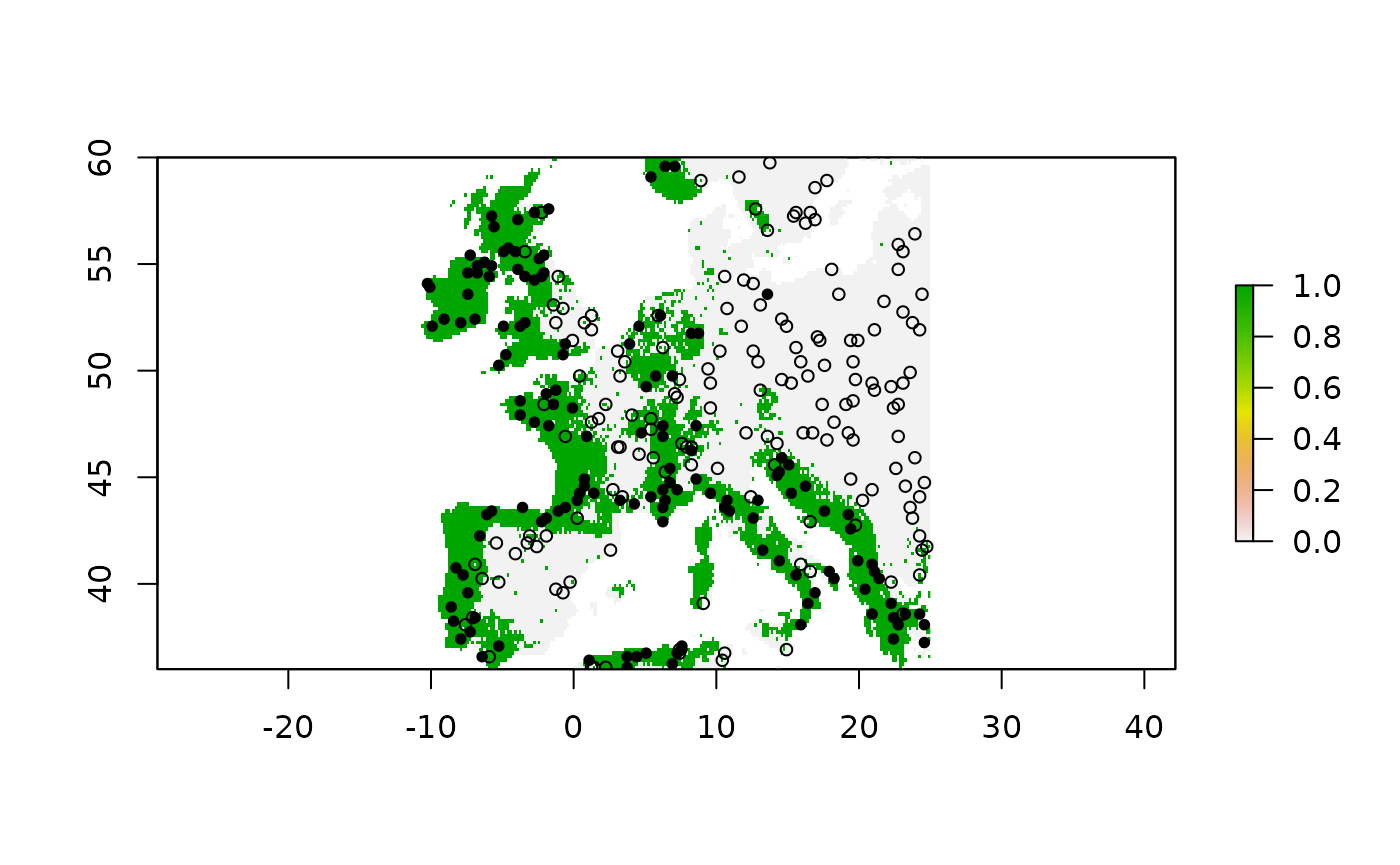
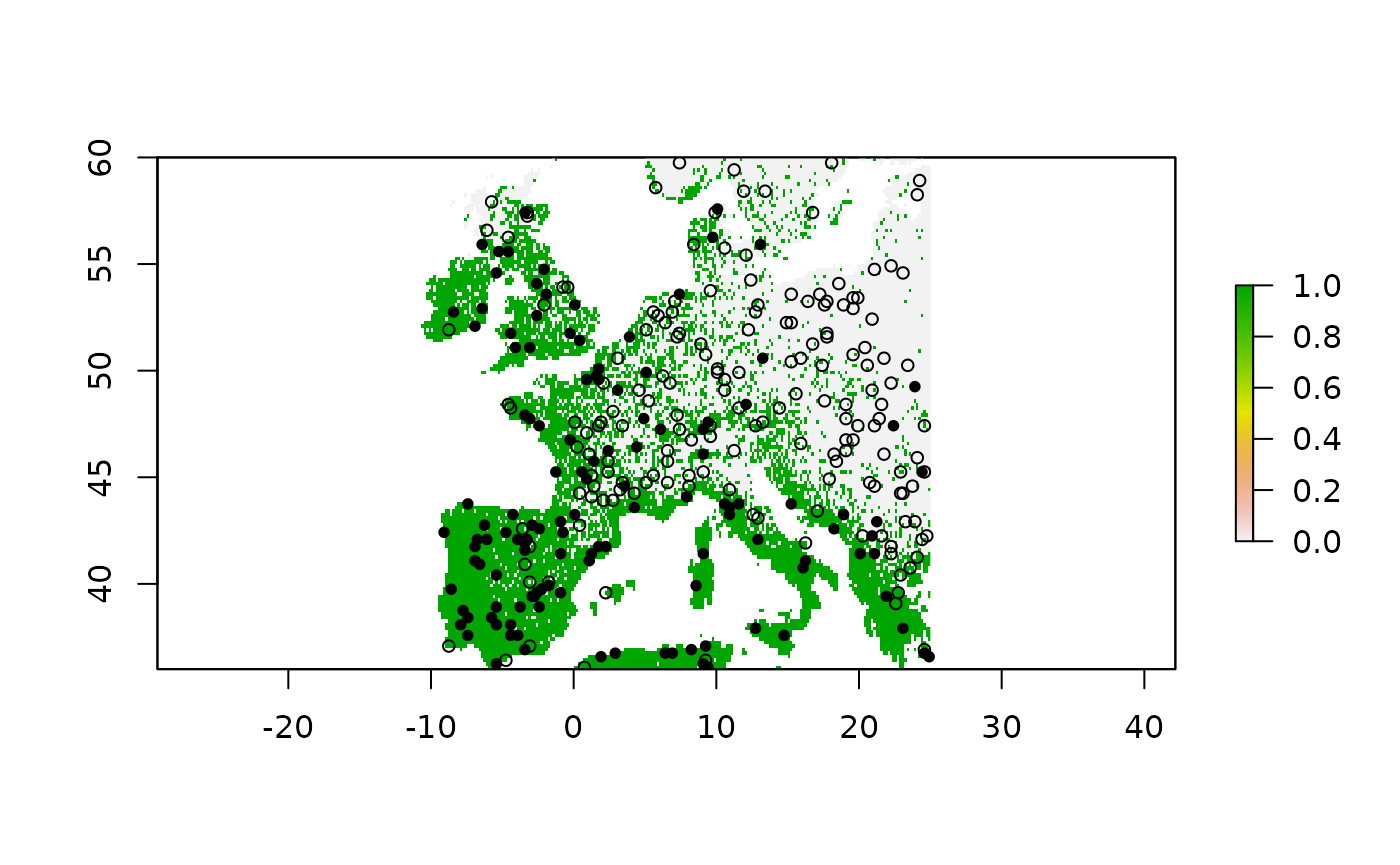
update website2

Changed region(s): [[0.3071, 0.1561, 0.6757, 0.7803], [0.645, 0.2497, 0.6757, 0.2809]]

diff --git a/docs/articles/USE_vignette.html b/docs/articles/USE_vignette.html
@@ -124,8 +124,8 @@ of the <strong>virtualspecies</strong> R package</p>
 <span class="fu"><a href="https://rdrr.io/pkg/raster/man/projection.html" class="external-link">crs</a></span><span class="op">(</span><span class="va">myPres</span><span class="op">)</span><span class="op">&lt;-</span><span class="va">myCRS</span>
 <span class="va">myPres</span>
 <span class="co">#&gt; class       : SpatialPointsDataFrame </span>
-<span class="co">#&gt; features    : 142 </span>
-<span class="co">#&gt; extent      : -10.25, 24.58333, 36.08333, 59.58333  (xmin, xmax, ymin, ymax)</span>
+<span class="co">#&gt; features    : 128 </span>
+<span class="co">#&gt; extent      : -9.083333, 24.91667, 36.08333, 57.58333  (xmin, xmax, ymin, ymax)</span>
 <span class="co">#&gt; crs         : +proj=longlat +datum=WGS84 +no_defs </span>
 <span class="co">#&gt; variables   : 1</span>
 <span class="co">#&gt; names       : Observed </span>
@@ -159,18 +159,18 @@ axes to create a new spatial object.</p>
 <code class="sourceCode R"><span class="fu"><a href="https://rdrr.io/r/utils/str.html" class="external-link">str</a></span><span class="op">(</span><span class="va">myObs</span><span class="op">)</span>
 <span class="co">#&gt; List of 2</span>
 <span class="co">#&gt;  $ Bkg.tr:Classes 'sf', 'data.table' and 'data.frame':   152 obs. of  4 variables:</span>
-<span class="co">#&gt;   ..$ x       : num [1:152] 8.92 9.25 9.25 22.58 9.08 ...</span>
-<span class="co">#&gt;   ..$ y       : num [1:152] 59.9 59.7 59.9 49.1 59.9 ...</span>
-<span class="co">#&gt;   ..$ ID      : chr [1:152] "26" "133" "28" "8504" ...</span>
-<span class="co">#&gt;   ..$ geometry:sfc_POINT of length 152; first list element:  'XY' num [1:2] -3.45 -2.94</span>
+<span class="co">#&gt;   ..$ x       : num [1:152] 9.25 9.42 22.25 22.58 9.58 ...</span>
+<span class="co">#&gt;   ..$ y       : num [1:152] 59.9 59.7 49.2 49.1 59.7 ...</span>
+<span class="co">#&gt;   ..$ ID      : chr [1:152] "28" "134" "8342" "8504" ...</span>
+<span class="co">#&gt;   ..$ geometry:sfc_POINT of length 152; first list element:  'XY' num [1:2] -3.74 -3.04</span>
 <span class="co">#&gt;   ..- attr(*, "sf_column")= chr "geometry"</span>
 <span class="co">#&gt;   ..- attr(*, "agr")= Factor w/ 3 levels "constant","aggregate",..: NA NA NA</span>
 <span class="co">#&gt;   .. ..- attr(*, "names")= chr [1:3] "x" "y" "ID"</span>
 <span class="co">#&gt;  $ Bkg.ts:Classes 'sf', 'data.table' and 'data.frame':   58 obs. of  4 variables:</span>
-<span class="co">#&gt;   ..$ x       : num [1:58] -8.75 20.08 -8.92 -8.92 -10.42 ...</span>
-<span class="co">#&gt;   ..$ y       : num [1:58] 40.7 39.7 42.2 42.9 52.1 ...</span>
-<span class="co">#&gt;   ..$ ID      : chr [1:58] "16089" "16870" "14895" "14302" ...</span>
-<span class="co">#&gt;   ..$ geometry:sfc_POINT of length 58; first list element:  'XY' num [1:2] 1.76 5.9</span>
+<span class="co">#&gt;   ..$ x       : num [1:58] -8.75 -8.42 -8.42 -7.92 -9.42 ...</span>
+<span class="co">#&gt;   ..$ y       : num [1:58] 41.1 40.9 42.2 41.2 51.4 ...</span>
+<span class="co">#&gt;   ..$ ID      : chr [1:58] "15841" "15966" "14898" "15719" ...</span>
+<span class="co">#&gt;   ..$ geometry:sfc_POINT of length 58; first list element:  'XY' num [1:2] 1.44 6.21</span>
 <span class="co">#&gt;   ..- attr(*, "sf_column")= chr "geometry"</span>
 <span class="co">#&gt;   ..- attr(*, "agr")= Factor w/ 3 levels "constant","aggregate",..: NA NA NA</span>
 <span class="co">#&gt;   .. ..- attr(*, "names")= chr [1:3] "x" "y" "ID"</span>
@@ -179,39 +179,39 @@ axes to create a new spatial object.</p>
 <span class="co">#&gt; Simple feature collection with 152 features and 3 fields</span>
 <span class="co">#&gt; Geometry type: POINT</span>
 <span class="co">#&gt; Dimension:     XY</span>
-<span class="co">#&gt; Bounding box:  xmin: -13.58791 ymin: -3.72142 xmax: 6.800077 ymax: 7.139334</span>
+<span class="co">#&gt; Bounding box:  xmin: -13.00796 ymin: -3.82134 xmax: 8.007452 ymax: 7.464948</span>
 <span class="co">#&gt; CRS:           NA</span>
 <span class="co">#&gt; First 10 features:</span>
-<span class="co">#&gt;              x        y   ID                     geometry</span>
-<span class="co">#&gt; 26    8.916667 59.91667   26  POINT (-3.445481 -2.938089)</span>
-<span class="co">#&gt; 133   9.250000 59.75000  133  POINT (-3.430072 -2.760282)</span>
-<span class="co">#&gt; 28    9.250000 59.91667   28  POINT (-3.741414 -3.044682)</span>
-<span class="co">#&gt; 8504 22.583333 49.08333 8504   POINT (-2.890885 -2.57662)</span>
-<span class="co">#&gt; 27    9.083333 59.91667   27  POINT (-3.641179 -3.006921)</span>
-<span class="co">#&gt; 3861 15.250000 53.58333 3861 POINT (-0.2643998 -3.070108)</span>
-<span class="co">#&gt; 850  22.750000 58.58333  850 POINT (-0.9664201 -3.180859)</span>
-<span class="co">#&gt; 4232 18.916667 53.25000 4232 POINT (0.04427603 -3.332483)</span>
-<span class="co">#&gt; 101  23.083333 59.91667  101    POINT (-1.03258 -3.72142)</span>
-<span class="co">#&gt; 736  14.750000 58.75000  736 POINT (-0.8184523 -2.743218)</span>
+<span class="co">#&gt;               x        y    ID                    geometry</span>
+<span class="co">#&gt; 28     9.250000 59.91667    28 POINT (-3.741414 -3.044682)</span>
+<span class="co">#&gt; 134    9.416667 59.75000   134  POINT (-3.270331 -2.84089)</span>
+<span class="co">#&gt; 8342  22.250000 49.25000  8342 POINT (-2.793576 -2.840835)</span>
+<span class="co">#&gt; 8504  22.583333 49.08333  8504  POINT (-2.890885 -2.57662)</span>
+<span class="co">#&gt; 135    9.583333 59.75000   135 POINT (-2.696467 -2.695892)</span>
+<span class="co">#&gt; 1902  22.583333 56.58333  1902 POINT (-1.419383 -3.004503)</span>
+<span class="co">#&gt; 2714  21.416667 55.08333  2714 POINT (-1.142236 -2.584697)</span>
+<span class="co">#&gt; 10081 21.916667 47.58333 10081  POINT (0.937118 -2.752098)</span>
+<span class="co">#&gt; 2459  24.250000 55.58333  2459 POINT (-0.7432313 -3.82134)</span>
+<span class="co">#&gt; 833   15.250000 58.58333   833 POINT (-0.507974 -2.759355)</span>
 <span class="co">#background points for the testing dataset</span>
 <span class="va">myObs</span><span class="op">$</span><span class="va">Bkg.ts</span>
 <span class="co">#&gt; Simple feature collection with 58 features and 3 fields</span>
 <span class="co">#&gt; Geometry type: POINT</span>
 <span class="co">#&gt; Dimension:     XY</span>
-<span class="co">#&gt; Bounding box:  xmin: -11.38069 ymin: -3.633896 xmax: 6.491139 ymax: 6.959128</span>
+<span class="co">#&gt; Bounding box:  xmin: -12.00336 ymin: -3.765887 xmax: 6.391347 ymax: 7.034773</span>
 <span class="co">#&gt; CRS:           NA</span>
 <span class="co">#&gt; First 10 features:</span>
 <span class="co">#&gt;                x        y    ID                    geometry</span>
-<span class="co">#&gt; 16089  -8.750000 40.75000 16089   POINT (1.759328 5.903501)</span>
-<span class="co">#&gt; 16870  20.083333 39.75000 16870   POINT (2.347694 5.856895)</span>
-<span class="co">#&gt; 14895  -8.916667 42.25000 14895  POINT (0.1535594 6.959128)</span>
-<span class="co">#&gt; 14302  -8.916667 42.91667 14302 POINT (-0.4818205 6.108024)</span>
-<span class="co">#&gt; 5360  -10.416667 52.08333  5360   POINT (-4.456471 6.41753)</span>
-<span class="co">#&gt; 5176   -9.583333 52.25000  5176  POINT (-3.398675 5.650272)</span>
-<span class="co">#&gt; 1546   -4.916667 57.08333  1546  POINT (-6.493316 5.645063)</span>
+<span class="co">#&gt; 15841  -8.750000 41.08333 15841   POINT (1.438175 6.212886)</span>
+<span class="co">#&gt; 15966  -8.416667 40.91667 15966   POINT (1.264748 5.807711)</span>
+<span class="co">#&gt; 14898  -8.416667 42.25000 14898 POINT (-0.7603953 7.034773)</span>
+<span class="co">#&gt; 15719  -7.916667 41.25000 15719  POINT (0.4765325 5.623394)</span>
+<span class="co">#&gt; 6097   -9.416667 51.41667  6097   POINT (-3.53417 6.026639)</span>
+<span class="co">#&gt; 5362  -10.083333 52.08333  5362   POINT (-4.624042 6.34817)</span>
 <span class="co">#&gt; 1923   -5.750000 56.41667  1923  POINT (-6.801299 6.590234)</span>
-<span class="co">#&gt; 17386  -8.750000 38.75000 17386   POINT (5.037107 3.941326)</span>
-<span class="co">#&gt; 18247   9.416667 37.25000 18247   POINT (5.392803 3.673602)</span></code></pre></div>
+<span class="co">#&gt; 2020   -4.750000 56.25000  2020   POINT (-7.437112 6.78468)</span>
+<span class="co">#&gt; 18329   9.250000 37.08333 18329    POINT (5.155894 3.83677)</span>
+<span class="co">#&gt; 18483   2.750000 36.75000 18483   POINT (4.946948 3.931985)</span></code></pre></div>
 <p>Uniformly sampling background points in the environmental space,
 accounting for the species presence points.</p>
 <div class="sourceCode" id="cb11"><pre class="downlit sourceCode r">
@@ -229,150 +229,150 @@ accounting for the species presence points.</p>
 <div class="sourceCode" id="cb12"><pre class="downlit sourceCode r">
 <code class="sourceCode R"><span class="fu"><a href="https://rdrr.io/r/utils/str.html" class="external-link">str</a></span><span class="op">(</span><span class="va">myGrid.psAbs</span><span class="op">)</span>
 <span class="co">#&gt; List of 2</span>
-<span class="co">#&gt;  $ Bkg.tr:Classes 'sf' and 'data.frame': 494 obs. of  27 variables:</span>
-<span class="co">#&gt;   ..$ KDE     : num [1:494] 0.000352 0.00038 0.001166 0.004827 0.003407 ...</span>
-<span class="co">#&gt;   ..$ myID    : num [1:494] 125 128 130 142 143 348 350 351 352 150 ...</span>
-<span class="co">#&gt;   ..$ PA      : num [1:494] 0 0 0 0 0 0 0 0 0 0 ...</span>
-<span class="co">#&gt;   ..$ percP   : chr [1:494] "out" "out" "out" "out" ...</span>
-<span class="co">#&gt;   ..$ x       : num [1:494] 8.75 9.25 9.58 11.58 11.75 ...</span>
-<span class="co">#&gt;   ..$ y       : num [1:494] 59.9 59.9 59.9 59.9 59.9 ...</span>
-<span class="co">#&gt;   ..$ bio1    : num [1:494] 13 16 35 46 44 18 25 27 38 45 ...</span>
-<span class="co">#&gt;   ..$ bio2    : num [1:494] 75 76 76 69 70 73 73 73 72 76 ...</span>
-<span class="co">#&gt;   ..$ bio3    : num [1:494] 27 26 26 24 24 26 26 26 25 26 ...</span>
-<span class="co">#&gt;   ..$ bio4    : num [1:494] 7053 7328 7619 7597 7577 ...</span>
-<span class="co">#&gt;   ..$ bio5    : num [1:494] 164 171 193 199 197 168 176 180 191 200 ...</span>
-<span class="co">#&gt;   ..$ bio6    : num [1:494] -112 -113 -98 -85 -88 -106 -102 -100 -90 -90 ...</span>
-<span class="co">#&gt;   ..$ bio7    : num [1:494] 276 284 291 284 285 274 278 280 281 290 ...</span>
-<span class="co">#&gt;   ..$ bio8    : num [1:494] 66 101 123 99 96 71 109 113 92 131 ...</span>
-<span class="co">#&gt;   ..$ bio9    : num [1:494] -42 -40 -21 -13 -16 -37 -31 -29 -18 -14 ...</span>
-<span class="co">#&gt;   ..$ bio10   : num [1:494] 106 112 134 146 143 111 119 123 135 144 ...</span>
-<span class="co">#&gt;   ..$ bio11   : num [1:494] -76 -77 -62 -50 -53 -70 -66 -65 -56 -51 ...</span>
-<span class="co">#&gt;   ..$ bio12   : num [1:494] 844 820 756 798 793 839 817 806 772 703 ...</span>
-<span class="co">#&gt;   ..$ bio13   : num [1:494] 103 102 95 90 90 103 101 99 95 83 ...</span>
-<span class="co">#&gt;   ..$ bio14   : num [1:494] 41 41 37 41 41 41 41 41 38 34 ...</span>
-<span class="co">#&gt;   ..$ bio15   : num [1:494] 27 28 29 26 26 28 28 27 28 29 ...</span>
-<span class="co">#&gt;   ..$ bio16   : num [1:494] 282 277 258 261 258 281 273 269 261 238 ...</span>
-<span class="co">#&gt;   ..$ bio17   : num [1:494] 134 130 119 132 131 133 131 130 124 112 ...</span>
-<span class="co">#&gt;   ..$ bio18   : num [1:494] 264 265 245 246 248 262 258 255 243 230 ...</span>
-<span class="co">#&gt;   ..$ bio19   : num [1:494] 171 158 140 156 154 167 159 155 145 131 ...</span>
-<span class="co">#&gt;   ..$ ID      : chr [1:494] "16" "17" "18" "25" ...</span>
-<span class="co">#&gt;   ..$ geometry:sfc_POINT of length 494; first list element:  'XY' num [1:2] -4.04 -2.58</span>
+<span class="co">#&gt;  $ Bkg.tr:Classes 'sf' and 'data.frame': 446 obs. of  27 variables:</span>
+<span class="co">#&gt;   ..$ KDE     : num [1:446] 0.000352 0.00038 0.001166 0.004827 0.003407 ...</span>
+<span class="co">#&gt;   ..$ myID    : num [1:446] 125 128 130 142 143 ...</span>
+<span class="co">#&gt;   ..$ PA      : num [1:446] 0 0 0 0 0 0 0 0 0 0 ...</span>
+<span class="co">#&gt;   ..$ percP   : chr [1:446] "out" "out" "out" "out" ...</span>
+<span class="co">#&gt;   ..$ x       : num [1:446] 8.75 9.25 9.58 11.58 11.75 ...</span>
+<span class="co">#&gt;   ..$ y       : num [1:446] 59.9 59.9 59.9 59.9 59.9 ...</span>
+<span class="co">#&gt;   ..$ bio1    : num [1:446] 13 16 35 46 44 18 25 27 38 84 ...</span>
+<span class="co">#&gt;   ..$ bio2    : num [1:446] 75 76 76 69 70 73 73 73 72 85 ...</span>
+<span class="co">#&gt;   ..$ bio3    : num [1:446] 27 26 26 24 24 26 26 26 25 27 ...</span>
+<span class="co">#&gt;   ..$ bio4    : num [1:446] 7053 7328 7619 7597 7577 ...</span>
+<span class="co">#&gt;   ..$ bio5    : num [1:446] 164 171 193 199 197 168 176 180 191 245 ...</span>
+<span class="co">#&gt;   ..$ bio6    : num [1:446] -112 -113 -98 -85 -88 -106 -102 -100 -90 -64 ...</span>
+<span class="co">#&gt;   ..$ bio7    : num [1:446] 276 284 291 284 285 274 278 280 281 309 ...</span>
+<span class="co">#&gt;   ..$ bio8    : num [1:446] 66 101 123 99 96 71 109 113 92 181 ...</span>
+<span class="co">#&gt;   ..$ bio9    : num [1:446] -42 -40 -21 -13 -16 -37 -31 -29 -18 -11 ...</span>
+<span class="co">#&gt;   ..$ bio10   : num [1:446] 106 112 134 146 143 111 119 123 135 181 ...</span>
+<span class="co">#&gt;   ..$ bio11   : num [1:446] -76 -77 -62 -50 -53 -70 -66 -65 -56 -24 ...</span>
+<span class="co">#&gt;   ..$ bio12   : num [1:446] 844 820 756 798 793 839 817 806 772 518 ...</span>
+<span class="co">#&gt;   ..$ bio13   : num [1:446] 103 102 95 90 90 103 101 99 95 74 ...</span>
+<span class="co">#&gt;   ..$ bio14   : num [1:446] 41 41 37 41 41 41 41 41 38 23 ...</span>
+<span class="co">#&gt;   ..$ bio15   : num [1:446] 27 28 29 26 26 28 28 27 28 37 ...</span>
+<span class="co">#&gt;   ..$ bio16   : num [1:446] 282 277 258 261 258 281 273 269 261 202 ...</span>
+<span class="co">#&gt;   ..$ bio17   : num [1:446] 134 130 119 132 131 133 131 130 124 76 ...</span>
+<span class="co">#&gt;   ..$ bio18   : num [1:446] 264 265 245 246 248 262 258 255 243 202 ...</span>
+<span class="co">#&gt;   ..$ bio19   : num [1:446] 171 158 140 156 154 167 159 155 145 85 ...</span>
+<span class="co">#&gt;   ..$ ID      : chr [1:446] "16" "17" "18" "25" ...</span>
+<span class="co">#&gt;   ..$ geometry:sfc_POINT of length 446; first list element:  'XY' num [1:2] -4.04 -2.58</span>
 <span class="co">#&gt;   ..- attr(*, "sf_column")= chr "geometry"</span>
 <span class="co">#&gt;   ..- attr(*, "agr")= Factor w/ 3 levels "constant","aggregate",..: NA NA NA NA NA NA NA NA NA NA ...</span>
 <span class="co">#&gt;   .. ..- attr(*, "names")= chr [1:26] "KDE" "myID" "PA" "percP" ...</span>
-<span class="co">#&gt;  $ Bkg.ts:Classes 'sf' and 'data.frame': 313 obs. of  27 variables:</span>
-<span class="co">#&gt;   ..$ KDE     : num [1:313] 0.000842 0.001535 0.001566 0.000774 0.000791 ...</span>
-<span class="co">#&gt;   ..$ myID    : num [1:313] 22886 22888 25332 24218 23551 ...</span>
-<span class="co">#&gt;   ..$ PA      : num [1:313] 0 0 0 0 0 0 0 0 0 0 ...</span>
-<span class="co">#&gt;   ..$ percP   : chr [1:313] "out" "out" "out" "out" ...</span>
-<span class="co">#&gt;   ..$ x       : num [1:313] -8.75 -8.42 -8.08 -8.75 -8.92 ...</span>
-<span class="co">#&gt;   ..$ y       : num [1:313] 42.7 42.7 40.9 41.7 42.2 ...</span>
-<span class="co">#&gt;   ..$ bio1    : num [1:313] 137 136 126 137 148 123 132 133 140 129 ...</span>
-<span class="co">#&gt;   ..$ bio2    : num [1:313] 65 75 94 76 61 85 80 65 83 68 ...</span>
-<span class="co">#&gt;   ..$ bio3    : num [1:313] 38 38 40 42 39 39 39 39 40 39 ...</span>
-<span class="co">#&gt;   ..$ bio4    : num [1:313] 3649 3992 4825 3718 3445 ...</span>
-<span class="co">#&gt;   ..$ bio5    : num [1:313] 233 245 259 235 232 244 245 225 255 228 ...</span>
-<span class="co">#&gt;   ..$ bio6    : num [1:313] 63 51 26 57 78 29 43 60 50 54 ...</span>
-<span class="co">#&gt;   ..$ bio7    : num [1:313] 170 194 233 178 154 215 202 165 205 174 ...</span>
-<span class="co">#&gt;   ..$ bio8    : num [1:313] 100 94 66 91 112 74 87 100 94 94 ...</span>
-<span class="co">#&gt;   ..$ bio9    : num [1:313] 183 188 188 184 191 182 184 175 195 174 ...</span>
-<span class="co">#&gt;   ..$ bio10   : num [1:313] 186 190 189 186 192 182 187 179 196 178 ...</span>
-<span class="co">#&gt;   ..$ bio11   : num [1:313] 92 88 66 91 104 68 83 91 86 86 ...</span>
-<span class="co">#&gt;   ..$ bio12   : num [1:313] 1303 1331 1337 1370 1293 ...</span>
-<span class="co">#&gt;   ..$ bio13   : num [1:313] 191 197 196 187 181 210 194 164 203 177 ...</span>
-<span class="co">#&gt;   ..$ bio14   : num [1:313] 33 35 15 19 26 30 35 33 24 36 ...</span>
-<span class="co">#&gt;   ..$ bio15   : num [1:313] 45 45 54 51 48 47 44 42 49 41 ...</span>
-<span class="co">#&gt;   ..$ bio16   : num [1:313] 512 513 539 550 520 543 503 458 527 487 ...</span>
-<span class="co">#&gt;   ..$ bio17   : num [1:313] 131 133 90 96 109 128 134 132 111 140 ...</span>
-<span class="co">#&gt;   ..$ bio18   : num [1:313] 152 152 94 117 131 139 152 156 126 163 ...</span>
-<span class="co">#&gt;   ..$ bio19   : num [1:313] 475 487 539 550 486 532 482 408 515 445 ...</span>
-<span class="co">#&gt;   ..$ ID      : chr [1:313] "3076" "3078" "3790" "3434" ...</span>
-<span class="co">#&gt;   ..$ geometry:sfc_POINT of length 313; first list element:  'XY' num [1:2] -0.472 6.57</span>
+<span class="co">#&gt;  $ Bkg.ts:Classes 'sf' and 'data.frame': 268 obs. of  27 variables:</span>
+<span class="co">#&gt;   ..$ KDE     : num [1:268] 0.00056 0.000956 0.000582 0.000445 0.00155 ...</span>
+<span class="co">#&gt;   ..$ myID    : num [1:268] 30747 23333 23553 24440 24222 ...</span>
+<span class="co">#&gt;   ..$ PA      : num [1:268] 0 0 0 0 0 0 0 0 0 0 ...</span>
+<span class="co">#&gt;   ..$ percP   : chr [1:268] "out" "out" "out" "out" ...</span>
+<span class="co">#&gt;   ..$ x       : num [1:268] 6.42 -8.25 -8.58 -8.75 -8.08 ...</span>
+<span class="co">#&gt;   ..$ y       : num [1:268] 36.9 42.4 42.2 41.6 41.7 ...</span>
+<span class="co">#&gt;   ..$ bio1    : num [1:268] 158 122 140 141 110 123 141 125 122 130 ...</span>
+<span class="co">#&gt;   ..$ bio2    : num [1:268] 87 83 71 79 88 85 72 97 94 80 ...</span>
+<span class="co">#&gt;   ..$ bio3    : num [1:268] 34 39 39 43 39 39 42 40 40 40 ...</span>
+<span class="co">#&gt;   ..$ bio4    : num [1:268] 5626 4391 3920 3665 4781 ...</span>
+<span class="co">#&gt;   ..$ bio5    : num [1:268] 298 241 239 239 240 244 233 263 255 243 ...</span>
+<span class="co">#&gt;   ..$ bio6    : num [1:268] 49 30 60 59 15 29 64 23 23 43 ...</span>
+<span class="co">#&gt;   ..$ bio7    : num [1:268] 249 211 179 180 225 215 169 240 232 200 ...</span>
+<span class="co">#&gt;   ..$ bio8    : num [1:268] 90 74 98 96 59 74 97 63 63 84 ...</span>
+<span class="co">#&gt;   ..$ bio9    : num [1:268] 229 179 190 187 173 182 185 191 185 185 ...</span>
+<span class="co">#&gt;   ..$ bio10   : num [1:268] 235 180 191 189 174 182 186 192 186 186 ...</span>
+<span class="co">#&gt;   ..$ bio11   : num [1:268] 90 69 91 96 52 68 97 63 63 78 ...</span>
+<span class="co">#&gt;   ..$ bio12   : num [1:268] 1185 1413 1470 1294 1439 ...</span>
+<span class="co">#&gt;   ..$ bio13   : num [1:268] 214 213 236 179 191 210 184 195 183 229 ...</span>
+<span class="co">#&gt;   ..$ bio14   : num [1:268] 5 33 30 16 25 30 18 15 20 31 ...</span>
+<span class="co">#&gt;   ..$ bio15   : num [1:268] 70 46 50 52 50 47 52 55 51 49 ...</span>
+<span class="co">#&gt;   ..$ bio16   : num [1:268] 582 546 592 519 564 543 534 533 536 576 ...</span>
+<span class="co">#&gt;   ..$ bio17   : num [1:268] 42 134 123 86 118 128 91 89 102 128 ...</span>
+<span class="co">#&gt;   ..$ bio18   : num [1:268] 65 147 140 108 125 139 115 92 110 142 ...</span>
+<span class="co">#&gt;   ..$ bio19   : num [1:268] 582 534 584 519 564 532 534 533 536 567 ...</span>
+<span class="co">#&gt;   ..$ ID      : chr [1:268] "5593" "3552" "3577" "3866" ...</span>
+<span class="co">#&gt;   ..$ geometry:sfc_POINT of length 268; first list element:  'XY' num [1:2] 2.48 5.97</span>
 <span class="co">#&gt;   ..- attr(*, "sf_column")= chr "geometry"</span>
 <span class="co">#&gt;   ..- attr(*, "agr")= Factor w/ 3 levels "constant","aggregate",..: NA NA NA NA NA NA NA NA NA NA ...</span>
 <span class="co">#&gt;   .. ..- attr(*, "names")= chr [1:26] "KDE" "myID" "PA" "percP" ...</span>
 <span class="co">#background points for the training dataset</span>
 <span class="va">myGrid.psAbs</span><span class="op">$</span><span class="va">Bkg.tr</span>
-<span class="co">#&gt; Simple feature collection with 494 features and 26 fields</span>
+<span class="co">#&gt; Simple feature collection with 446 features and 26 fields</span>
 <span class="co">#&gt; Geometry type: POINT</span>
 <span class="co">#&gt; Dimension:     XY</span>
-<span class="co">#&gt; Bounding box:  xmin: -13.58791 ymin: -4.483249 xmax: 6.97369 ymax: 7.630419</span>
-<span class="co">#&gt; CRS:           NA</span>
-<span class="co">#&gt; First 10 features:</span>
-<span class="co">#&gt;             KDE myID PA percP         x        y bio1 bio2 bio3 bio4 bio5 bio6</span>
-<span class="co">#&gt; 16 0.0003518053  125  0   out  8.750000 59.91667   13   75   27 7053  164 -112</span>
-<span class="co">#&gt; 17 0.0003799395  128  0   out  9.250000 59.91667   16   76   26 7328  171 -113</span>
-<span class="co">#&gt; 18 0.0011658064  130  0   out  9.583333 59.91667   35   76   26 7619  193  -98</span>
-<span class="co">#&gt; 25 0.0048266103  142  0   out 11.583333 59.91667   46   69   24 7597  199  -85</span>
-<span class="co">#&gt; 26 0.0034065575  143  0   out 11.750000 59.91667   44   70   24 7577  197  -88</span>
-<span class="co">#&gt; 56 0.0004986511  348  0   out  8.916667 59.75000   18   73   26 7051  168 -106</span>
-<span class="co">#&gt; 57 0.0006048808  350  0   out  9.250000 59.75000   25   73   26 7183  176 -102</span>
-<span class="co">#&gt; 58 0.0006311931  351  0   out  9.416667 59.75000   27   73   26 7300  180 -100</span>
-<span class="co">#&gt; 59 0.0034854319  352  0   out  9.583333 59.75000   38   72   25 7389  191  -90</span>
-<span class="co">#&gt; 31 0.0089087937  150  0   out 12.916667 59.91667   45   76   26 7563  200  -90</span>
-<span class="co">#&gt;    bio7 bio8 bio9 bio10 bio11 bio12 bio13 bio14 bio15 bio16 bio17 bio18 bio19</span>
-<span class="co">#&gt; 16  276   66  -42   106   -76   844   103    41    27   282   134   264   171</span>
-<span class="co">#&gt; 17  284  101  -40   112   -77   820   102    41    28   277   130   265   158</span>
-<span class="co">#&gt; 18  291  123  -21   134   -62   756    95    37    29   258   119   245   140</span>
-<span class="co">#&gt; 25  284   99  -13   146   -50   798    90    41    26   261   132   246   156</span>
-<span class="co">#&gt; 26  285   96  -16   143   -53   793    90    41    26   258   131   248   154</span>
-<span class="co">#&gt; 56  274   71  -37   111   -70   839   103    41    28   281   133   262   167</span>
-<span class="co">#&gt; 57  278  109  -31   119   -66   817   101    41    28   273   131   258   159</span>
-<span class="co">#&gt; 58  280  113  -29   123   -65   806    99    41    27   269   130   255   155</span>
-<span class="co">#&gt; 59  281   92  -18   135   -56   772    95    38    28   261   124   243   145</span>
-<span class="co">#&gt; 31  290  131  -14   144   -51   703    83    34    29   238   112   230   131</span>
-<span class="co">#&gt;    ID                    geometry</span>
-<span class="co">#&gt; 16 16 POINT (-4.041346 -2.577969)</span>
-<span class="co">#&gt; 17 17 POINT (-3.741414 -3.044682)</span>
-<span class="co">#&gt; 18 18 POINT (-2.552753 -3.139665)</span>
-<span class="co">#&gt; 25 25 POINT (-2.562465 -2.663995)</span>
-<span class="co">#&gt; 26 26 POINT (-2.641587 -2.743201)</span>
-<span class="co">#&gt; 56 56 POINT (-3.853077 -2.523284)</span>
-<span class="co">#&gt; 57 57 POINT (-3.430072 -2.760282)</span>
-<span class="co">#&gt; 58 58  POINT (-3.270331 -2.84089)</span>
-<span class="co">#&gt; 59 59 POINT (-2.696467 -2.695892)</span>
-<span class="co">#&gt; 31 31 POINT (-1.878144 -3.179145)</span>
-<span class="co">#background points for the testing dataset</span>
-<span class="va">myGrid.psAbs</span><span class="op">$</span><span class="va">Bkg.ts</span>
-<span class="co">#&gt; Simple feature collection with 313 features and 26 fields</span>
-<span class="co">#&gt; Geometry type: POINT</span>
-<span class="co">#&gt; Dimension:     XY</span>
-<span class="co">#&gt; Bounding box:  xmin: -12.93306 ymin: -4.46269 xmax: 6.838346 ymax: 7.188879</span>
+<span class="co">#&gt; Bounding box:  xmin: -13.58791 ymin: -4.519409 xmax: 7.237459 ymax: 7.464948</span>
 <span class="co">#&gt; CRS:           NA</span>
 <span class="co">#&gt; First 10 features:</span>
 <span class="co">#&gt;               KDE  myID PA percP         x        y bio1 bio2 bio3 bio4 bio5</span>
-<span class="co">#&gt; 3076 0.0008424206 22886  0   out -8.750000 42.75000  137   65   38 3649  233</span>
-<span class="co">#&gt; 3078 0.0015354148 22888  0   out -8.416667 42.75000  136   75   38 3992  245</span>
-<span class="co">#&gt; 3790 0.0015664237 25332  0   out -8.083333 40.91667  126   94   40 4825  259</span>
-<span class="co">#&gt; 3434 0.0007744988 24218  0   out -8.750000 41.75000  137   76   42 3718  235</span>
-<span class="co">#&gt; 3230 0.0007908221 23551  0   out -8.916667 42.25000  148   61   39 3445  232</span>
-<span class="co">#&gt; 3234 0.0017867435 23555  0   out -8.250000 42.25000  123   85   39 4514  244</span>
-<span class="co">#&gt; 3079 0.0021191116 22889  0   out -8.250000 42.75000  132   80   39 4069  245</span>
-<span class="co">#&gt; 2926 0.0023685764 22441  0   out -8.916667 43.08333  133   65   39 3398  225</span>
-<span class="co">#&gt; 3302 0.0007172080 23776  0   out -8.416667 42.08333  140   83   40 4278  255</span>
-<span class="co">#&gt; 2927 0.0017581440 22442  0   out -8.750000 43.08333  129   68   39 3584  228</span>
+<span class="co">#&gt; 16   0.0003518053   125  0   out  8.750000 59.91667   13   75   27 7053  164</span>
+<span class="co">#&gt; 17   0.0003799395   128  0   out  9.250000 59.91667   16   76   26 7328  171</span>
+<span class="co">#&gt; 18   0.0011658064   130  0   out  9.583333 59.91667   35   76   26 7619  193</span>
+<span class="co">#&gt; 25   0.0048266103   142  0   out 11.583333 59.91667   46   69   24 7597  199</span>
+<span class="co">#&gt; 26   0.0034065575   143  0   out 11.750000 59.91667   44   70   24 7577  197</span>
+<span class="co">#&gt; 58   0.0004986511   348  0   out  8.916667 59.75000   18   73   26 7051  168</span>
+<span class="co">#&gt; 59   0.0006048808   350  0   out  9.250000 59.75000   25   73   26 7183  176</span>
+<span class="co">#&gt; 60   0.0006311931   351  0   out  9.416667 59.75000   27   73   26 7300  180</span>
+<span class="co">#&gt; 61   0.0034854319   352  0   out  9.583333 59.75000   38   72   25 7389  191</span>
+<span class="co">#&gt; 1241 0.0132314755 10617  0   out 18.416667 52.08333   84   85   27 7938  245</span>
 <span class="co">#&gt;      bio6 bio7 bio8 bio9 bio10 bio11 bio12 bio13 bio14 bio15 bio16 bio17 bio18</span>
-<span class="co">#&gt; 3076   63  170  100  183   186    92  1303   191    33    45   512   131   152</span>
-<span class="co">#&gt; 3078   51  194   94  188   190    88  1331   197    35    45   513   133   152</span>
-<span class="co">#&gt; 3790   26  233   66  188   189    66  1337   196    15    54   539    90    94</span>
-<span class="co">#&gt; 3434   57  178   91  184   186    91  1370   187    19    51   550    96   117</span>
-<span class="co">#&gt; 3230   78  154  112  191   192   104  1293   181    26    48   520   109   131</span>
-<span class="co">#&gt; 3234   29  215   74  182   182    68  1396   210    30    47   543   128   139</span>
-<span class="co">#&gt; 3079   43  202   87  184   187    83  1321   194    35    44   503   134   152</span>
-<span class="co">#&gt; 2926   60  165  100  175   179    91  1175   164    33    42   458   132   156</span>
-<span class="co">#&gt; 3302   50  205   94  195   196    86  1333   203    24    49   527   111   126</span>
-<span class="co">#&gt; 2927   54  174   94  174   178    86  1261   177    36    41   487   140   163</span>
+<span class="co">#&gt; 16   -112  276   66  -42   106   -76   844   103    41    27   282   134   264</span>
+<span class="co">#&gt; 17   -113  284  101  -40   112   -77   820   102    41    28   277   130   265</span>
+<span class="co">#&gt; 18    -98  291  123  -21   134   -62   756    95    37    29   258   119   245</span>
+<span class="co">#&gt; 25    -85  284   99  -13   146   -50   798    90    41    26   261   132   246</span>
+<span class="co">#&gt; 26    -88  285   96  -16   143   -53   793    90    41    26   258   131   248</span>
+<span class="co">#&gt; 58   -106  274   71  -37   111   -70   839   103    41    28   281   133   262</span>
+<span class="co">#&gt; 59   -102  278  109  -31   119   -66   817   101    41    28   273   131   258</span>
+<span class="co">#&gt; 60   -100  280  113  -29   123   -65   806    99    41    27   269   130   255</span>
+<span class="co">#&gt; 61    -90  281   92  -18   135   -56   772    95    38    28   261   124   243</span>
+<span class="co">#&gt; 1241  -64  309  181  -11   181   -24   518    74    23    37   202    76   202</span>
 <span class="co">#&gt;      bio19   ID                    geometry</span>
-<span class="co">#&gt; 3076   475 3076 POINT (-0.4722045 6.569908)</span>
-<span class="co">#&gt; 3078   487 3078   POINT (-0.33467 6.342836)</span>
-<span class="co">#&gt; 3790   539 3790  POINT (0.5825749 5.827699)</span>
-<span class="co">#&gt; 3434   550 3434  POINT (0.1703095 7.026533)</span>
-<span class="co">#&gt; 3230   486 3230  POINT (0.1535594 6.959128)</span>
-<span class="co">#&gt; 3234   532 3234 POINT (-0.6382789 6.180318)</span>
-<span class="co">#&gt; 3079   482 3079 POINT (-0.3375594 6.131956)</span>
-<span class="co">#&gt; 2926   408 2926  POINT (-0.271826 5.904578)</span>
-<span class="co">#&gt; 3302   515 3302    POINT (0.3737173 6.4411)</span>
-<span class="co">#&gt; 2927   445 2927 POINT (-0.6801149 6.125918)</span></code></pre></div>
+<span class="co">#&gt; 16     171   16 POINT (-4.041346 -2.577969)</span>
+<span class="co">#&gt; 17     158   17 POINT (-3.741414 -3.044682)</span>
+<span class="co">#&gt; 18     140   18 POINT (-2.552753 -3.139665)</span>
+<span class="co">#&gt; 25     156   25 POINT (-2.562465 -2.663995)</span>
+<span class="co">#&gt; 26     154   26 POINT (-2.641587 -2.743201)</span>
+<span class="co">#&gt; 58     167   58 POINT (-3.853077 -2.523284)</span>
+<span class="co">#&gt; 59     159   59 POINT (-3.430072 -2.760282)</span>
+<span class="co">#&gt; 60     155   60  POINT (-3.270331 -2.84089)</span>
+<span class="co">#&gt; 61     145   61 POINT (-2.696467 -2.695892)</span>
+<span class="co">#&gt; 1241    85 1241 POINT (0.6882553 -3.580794)</span>
+<span class="co">#background points for the testing dataset</span>
+<span class="va">myGrid.psAbs</span><span class="op">$</span><span class="va">Bkg.ts</span>
+<span class="co">#&gt; Simple feature collection with 268 features and 26 fields</span>
+<span class="co">#&gt; Geometry type: POINT</span>
+<span class="co">#&gt; Dimension:     XY</span>
+<span class="co">#&gt; Bounding box:  xmin: -12.67491 ymin: -4.349793 xmax: 8.36266 ymax: 7.630419</span>
+<span class="co">#&gt; CRS:           NA</span>
+<span class="co">#&gt; First 10 features:</span>
+<span class="co">#&gt;               KDE  myID PA percP         x        y bio1 bio2 bio3 bio4 bio5</span>
+<span class="co">#&gt; 5593 0.0005599525 30747  0   out  6.416667 36.91667  158   87   34 5626  298</span>
+<span class="co">#&gt; 3552 0.0009556438 23333  0   out -8.250000 42.41667  122   83   39 4391  241</span>
+<span class="co">#&gt; 3577 0.0005817627 23553  0   out -8.583333 42.25000  140   71   39 3920  239</span>
+<span class="co">#&gt; 3866 0.0004454349 24440  0   out -8.750000 41.58333  141   79   43 3665  239</span>
+<span class="co">#&gt; 3797 0.0015495774 24222  0   out -8.083333 41.75000  110   88   39 4781  240</span>
+<span class="co">#&gt; 3579 0.0017867435 23555  0   out -8.250000 42.25000  123   85   39 4514  244</span>
+<span class="co">#&gt; 3792 0.0006253362 24217  0   out -8.916667 41.75000  141   72   42 3520  233</span>
+<span class="co">#&gt; 4099 0.0019660070 25111  0   out -7.916667 41.08333  125   97   40 5059  263</span>
+<span class="co">#&gt; 3869 0.0024464275 24444  0   out -8.083333 41.58333  122   94   40 4837  255</span>
+<span class="co">#&gt; 3578 0.0005579289 23554  0   out -8.416667 42.25000  130   80   40 4260  243</span>
+<span class="co">#&gt;      bio6 bio7 bio8 bio9 bio10 bio11 bio12 bio13 bio14 bio15 bio16 bio17 bio18</span>
+<span class="co">#&gt; 5593   49  249   90  229   235    90  1185   214     5    70   582    42    65</span>
+<span class="co">#&gt; 3552   30  211   74  179   180    69  1413   213    33    46   546   134   147</span>
+<span class="co">#&gt; 3577   60  179   98  190   191    91  1470   236    30    50   592   123   140</span>
+<span class="co">#&gt; 3866   59  180   96  187   189    96  1294   179    16    52   519    86   108</span>
+<span class="co">#&gt; 3797   15  225   59  173   174    52  1439   191    25    50   564   118   125</span>
+<span class="co">#&gt; 3579   29  215   74  182   182    68  1396   210    30    47   543   128   139</span>
+<span class="co">#&gt; 3792   64  169   97  185   186    97  1331   184    18    52   534    91   115</span>
+<span class="co">#&gt; 4099   23  240   63  191   192    63  1319   195    15    55   533    89    92</span>
+<span class="co">#&gt; 3869   23  232   63  185   186    63  1354   183    20    51   536   102   110</span>
+<span class="co">#&gt; 3578   43  200   84  185   186    78  1456   229    31    49   576   128   142</span>
+<span class="co">#&gt;      bio19   ID                    geometry</span>
+<span class="co">#&gt; 5593   582 5593    POINT (2.47619 5.974341)</span>
+<span class="co">#&gt; 3552   534 3552 POINT (-0.8915636 6.315463)</span>
+<span class="co">#&gt; 3577   584 3577 POINT (-0.7204456 7.630419)</span>
+<span class="co">#&gt; 3866   519 3866  POINT (0.7525088 6.777952)</span>
+<span class="co">#&gt; 3797   564 3797 POINT (-0.7818401 5.834994)</span>
+<span class="co">#&gt; 3579   532 3579 POINT (-0.6382789 6.180318)</span>
+<span class="co">#&gt; 3792   534 3792   POINT (0.355226 7.071669)</span>
+<span class="co">#&gt; 4099   533 4099  POINT (0.7414445 5.624752)</span>
+<span class="co">#&gt; 3869   536 3869   POINT (0.2654926 5.68265)</span>
+<span class="co">#&gt; 3578   567 3578 POINT (-0.7603953 7.034773)</span></code></pre></div>
   </main>
 </div>
 

diff --git a/docs/404.html b/docs/404.html
@@ -55,7 +55,7 @@
 </nav><div class="container template-title-body">
 <div class="row">
   <main id="main" class="col-md-9"><div class="page-header">
-      <img src="" class="logo" alt=""><h1>Page not found (404)</h1>
+      <img src="NA" class="logo" alt=""><h1>Page not found (404)</h1>
       
     </div>
 
